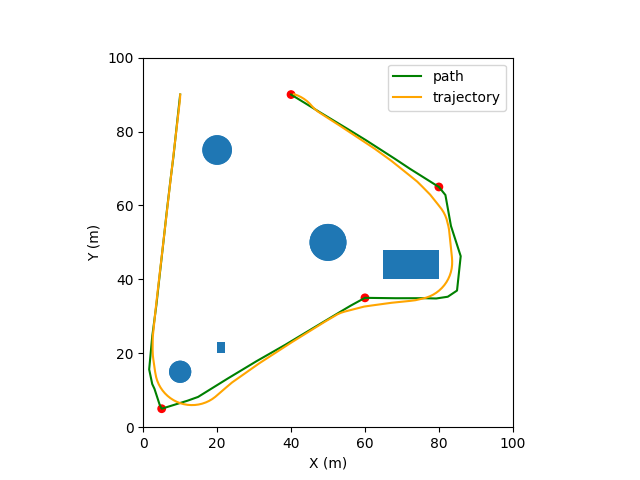
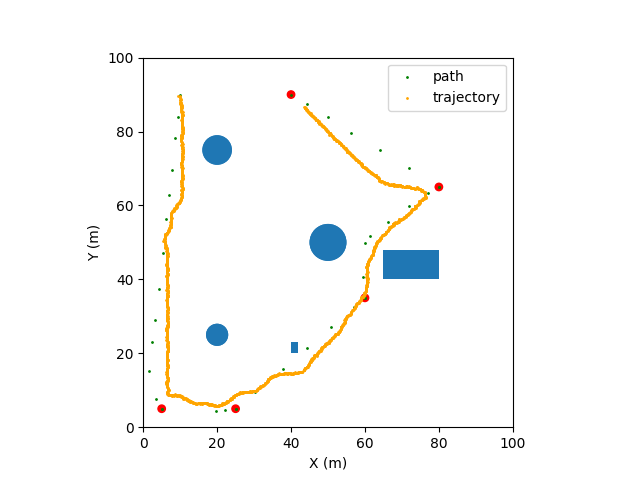
updated readme

diff --git a/README.md b/README.md
@@ -2,13 +2,14 @@
 
 Basic 2D UAS/drone simulation platform written in C++.
 
-**Latest update:** v1.3 — Object avoidance
+**Latest update:** v1.4 — Frontier Based A\* Autonomous Navigation
 
 ## Current capabilities
 
-- Waypoint navigation using RRT* path planning and Pure Pursuit path following
+- Preplanned Waypoint navigation using RRT* path planning and Pure Pursuit path following
+- Autonomous Waypoint navigation using Frontier-Based Exploration and A\* Path Planning
 - Configurable GPS sensor noise and update frequency
-- Extended Kalman Filter state estimation
+- Extended Kalman Filter state estimation 
 - Configurable UAS speed, acceleration, and turn-rate limits
 
 ## Future plans
